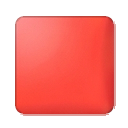
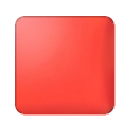
Tile seam: all the way down, not just softer
Follow-up to 4670494 -- user asked why the seam wasn't taken to the minimum
("sao k cho bé hẳn"), and they're right, 0.72 was a halfway house. The baked
outline pixels now carry the tile's own body colour exactly (FACTOR=1.0), so the
dark bar between two tiles is gone rather than merely toned down. Measured across
four beige tiles on the real render: body 187, and the dip is no longer there at
all (it read 122 before any of this, 172 at 0.72).

The art is regenerated from c13604b's tiles, not from the 0.72 pass -- the script
only touches near-black pixels, so running it twice does nothing the second time.
Noted in features.txt along with the way to change FACTOR later.

What is left between tiles is a LIGHT hairline, not a dark one: the keycap fills
0.71 of its PNG and draws at 1.3x the cell, so it covers 0.925 of the cell and the
board panel shows through the remaining 0.075. Closing that needs setDisplaySize
1.3 -> 1.41, which makes same-colour areas read as one slab -- left alone for now
since it is a real change to how the mosaic reads, not a defect fix.

Cache-buster to v9.

Changed region(s): [[0.1562, 0.875, 0.8438, 0.9062], [0.875, 0.1875, 0.9062, 0.8438]]

diff --git a/src/scenes/GameScene.ts b/src/scenes/GameScene.ts
@@ -459,7 +459,7 @@ export class GameScene extends Phaser.Scene {
       // Glossy keycap board-tile art (public/art/slime/tile-<id>.png). If present it
       // REPLACES the procedural flat tile in create(); missing ones fall back to it.
       // ?v= cache-buster: bump when the tile PNGs change so browsers refetch (they cache by URL).
-      this.load.image(`tile-${i}`, `art/slime/tile-${i}.png?v=8`);
+      this.load.image(`tile-${i}`, `art/slime/tile-${i}.png?v=9`);
     }
     // XU VÀNG màn thắng (video mẫu IMG_6489). Art thật user sẽ gửi vào public/art/coin.png;
     // thiếu/hỏng → create() vẽ placeholder (makeCoinTexture).
